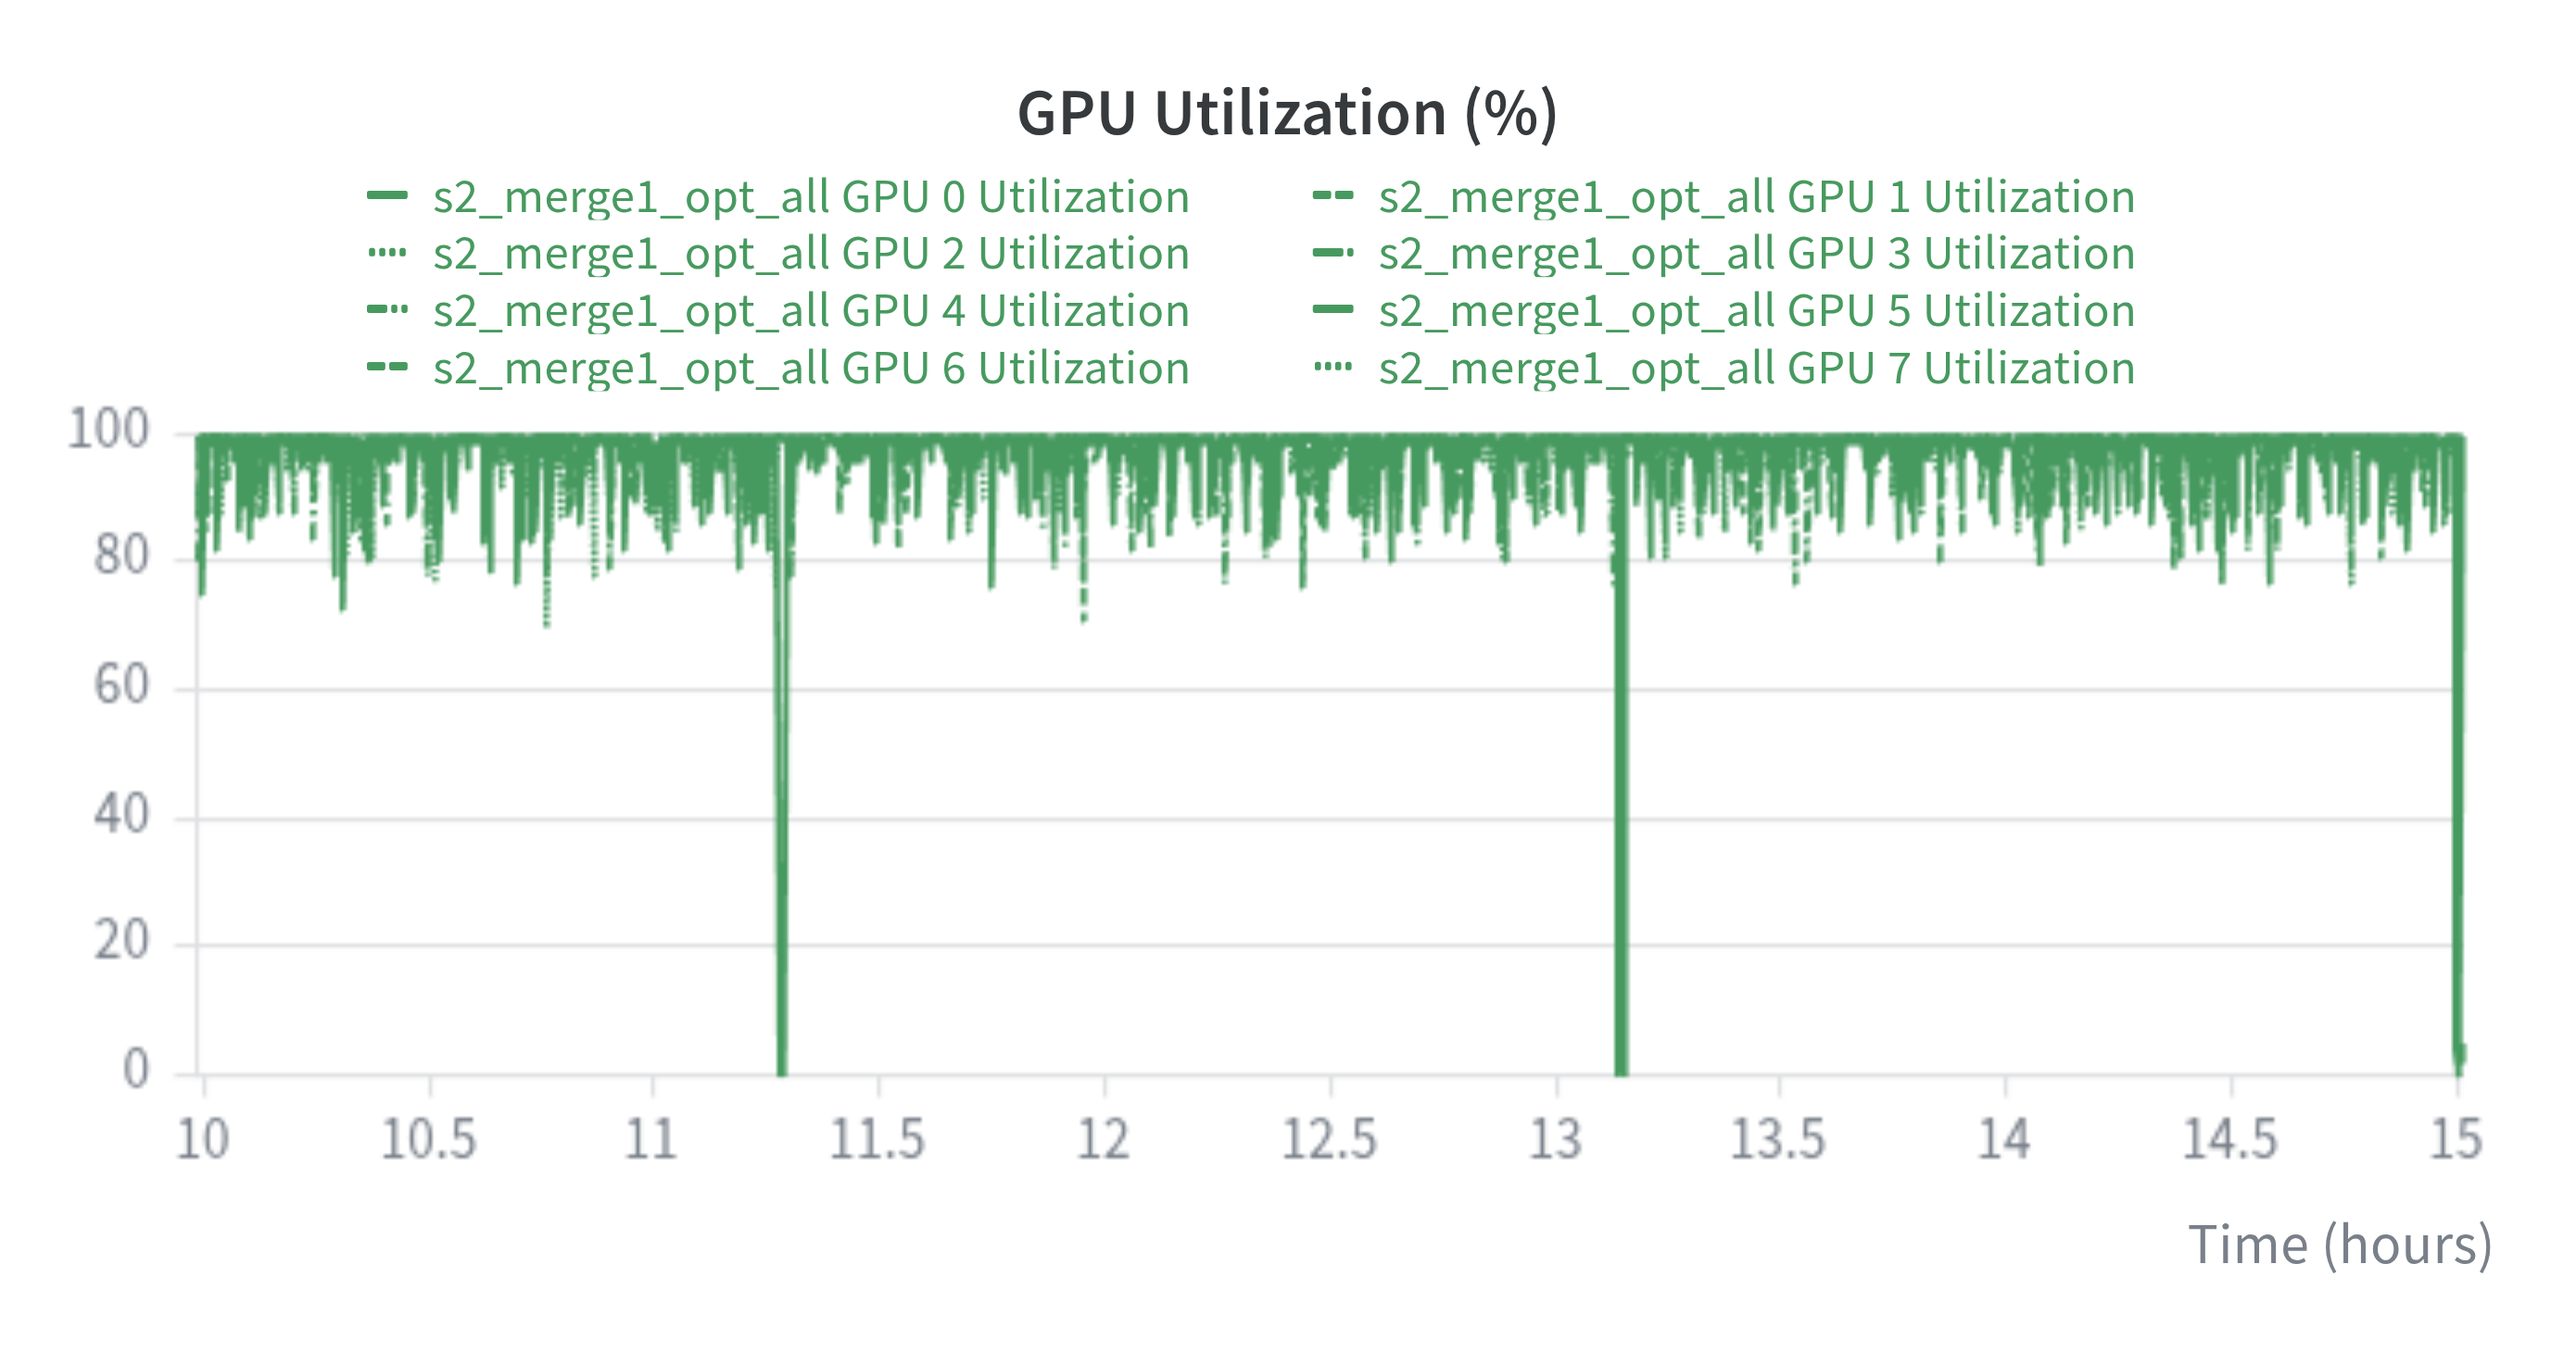
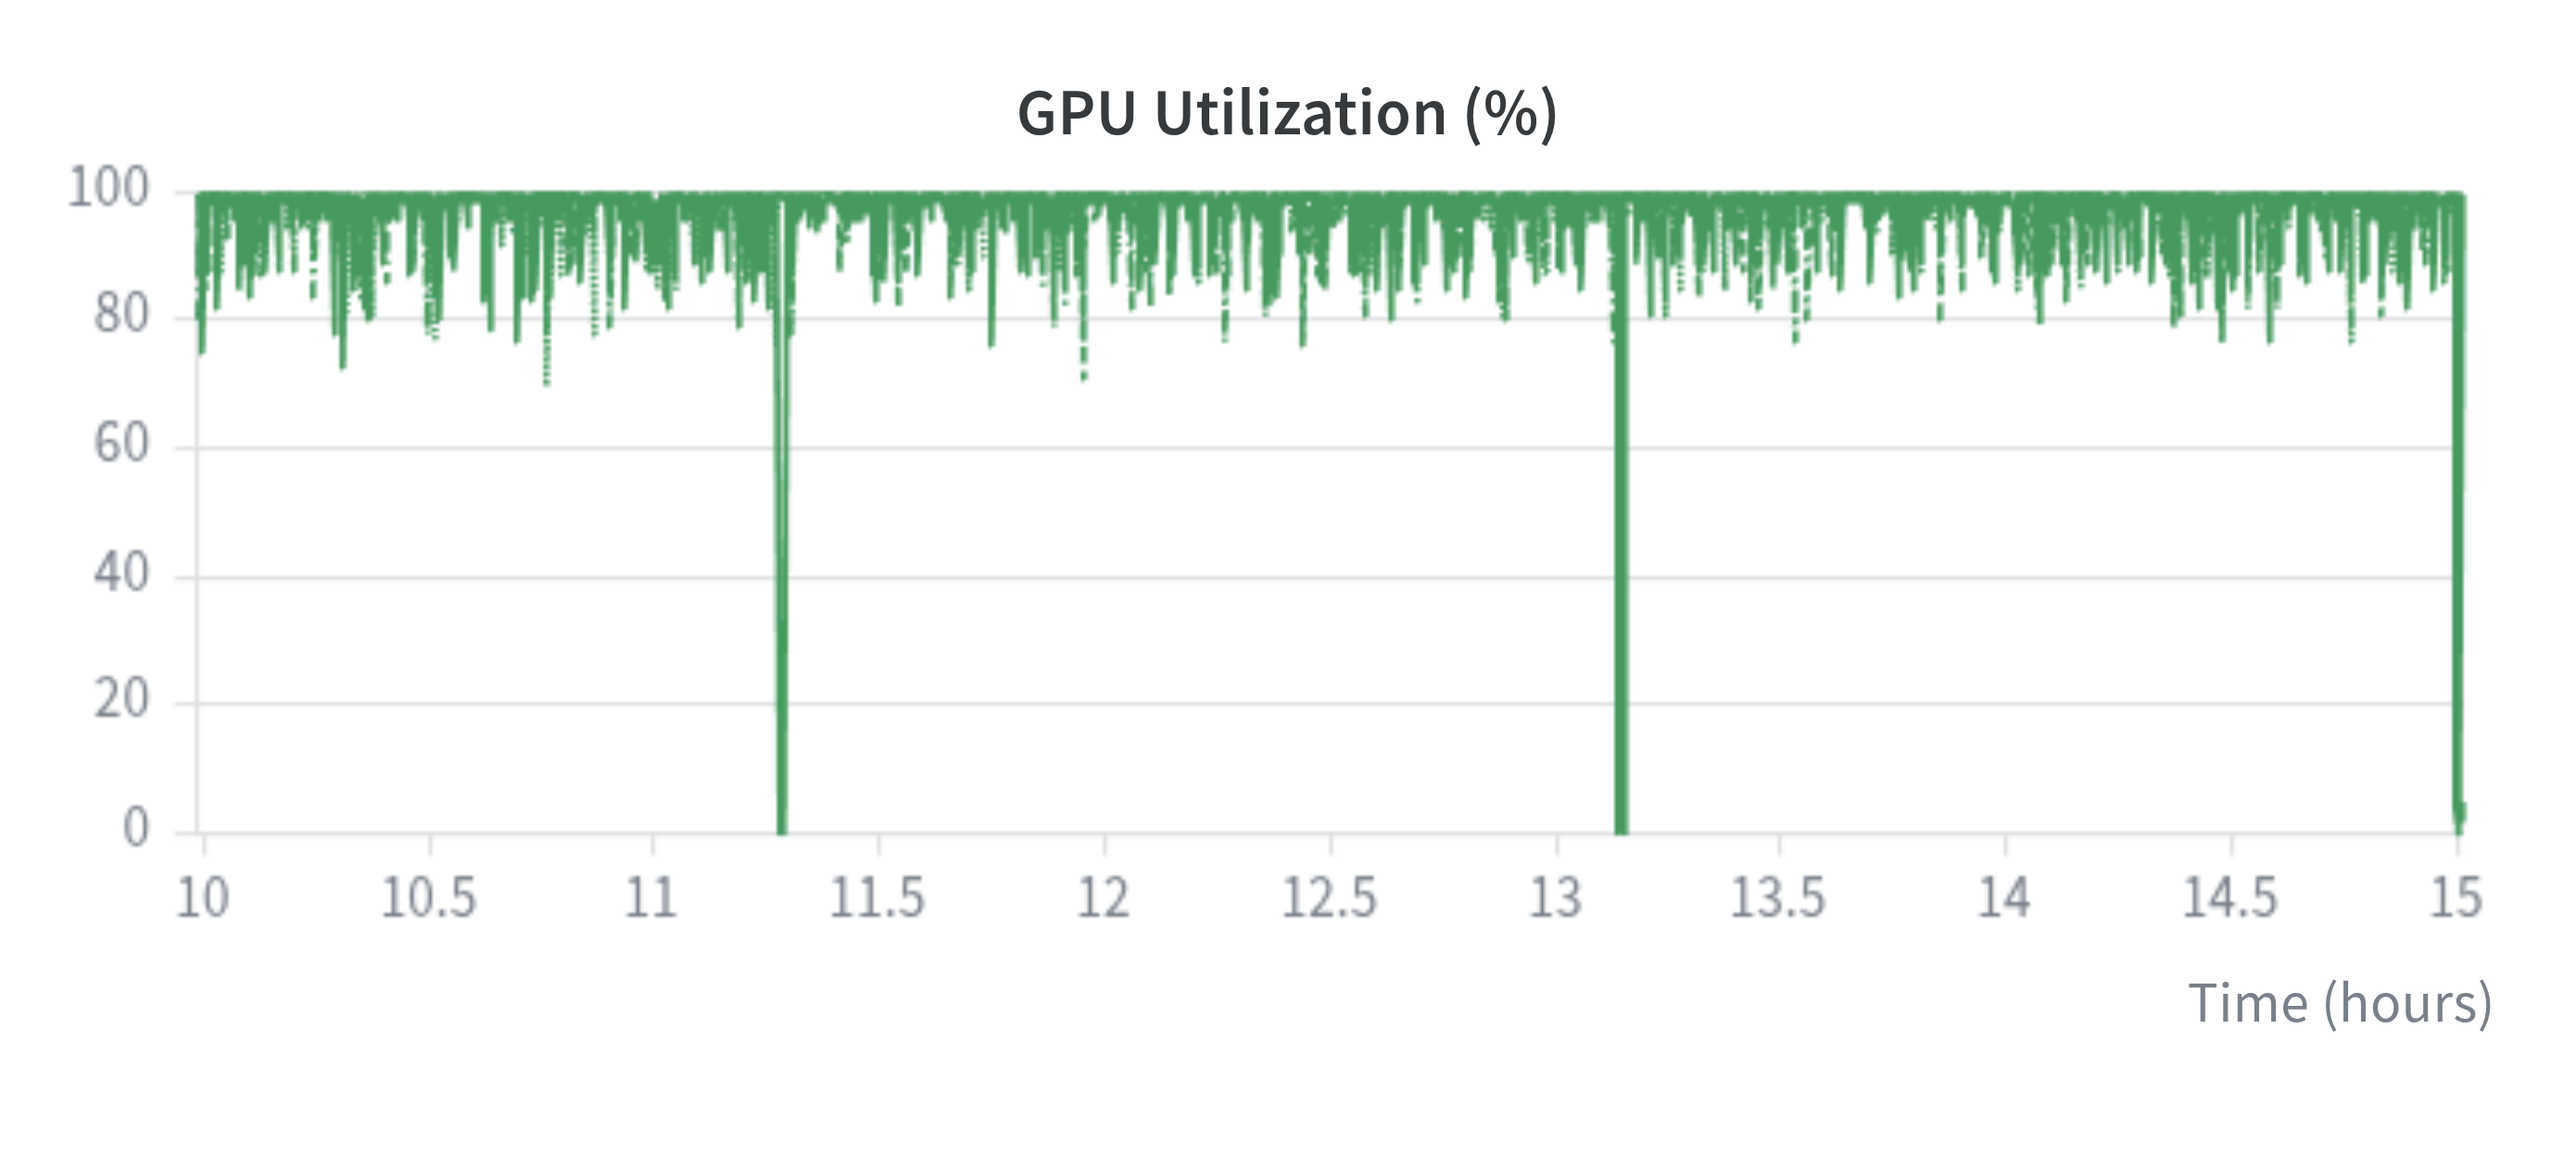
Mask internal run names and add a 30-minute presenter countdown

diff --git a/slides.md b/slides.md
@@ -6,6 +6,8 @@ canvasWidth: 1920
 aspectRatio: 16/9
 transition: fade
 layout: cover
+duration: 30min
+timer: countdown
 ---
 
 # 오픈소스 Physical AI 모델은<br>더 빠르게 훈련할 수 있다
